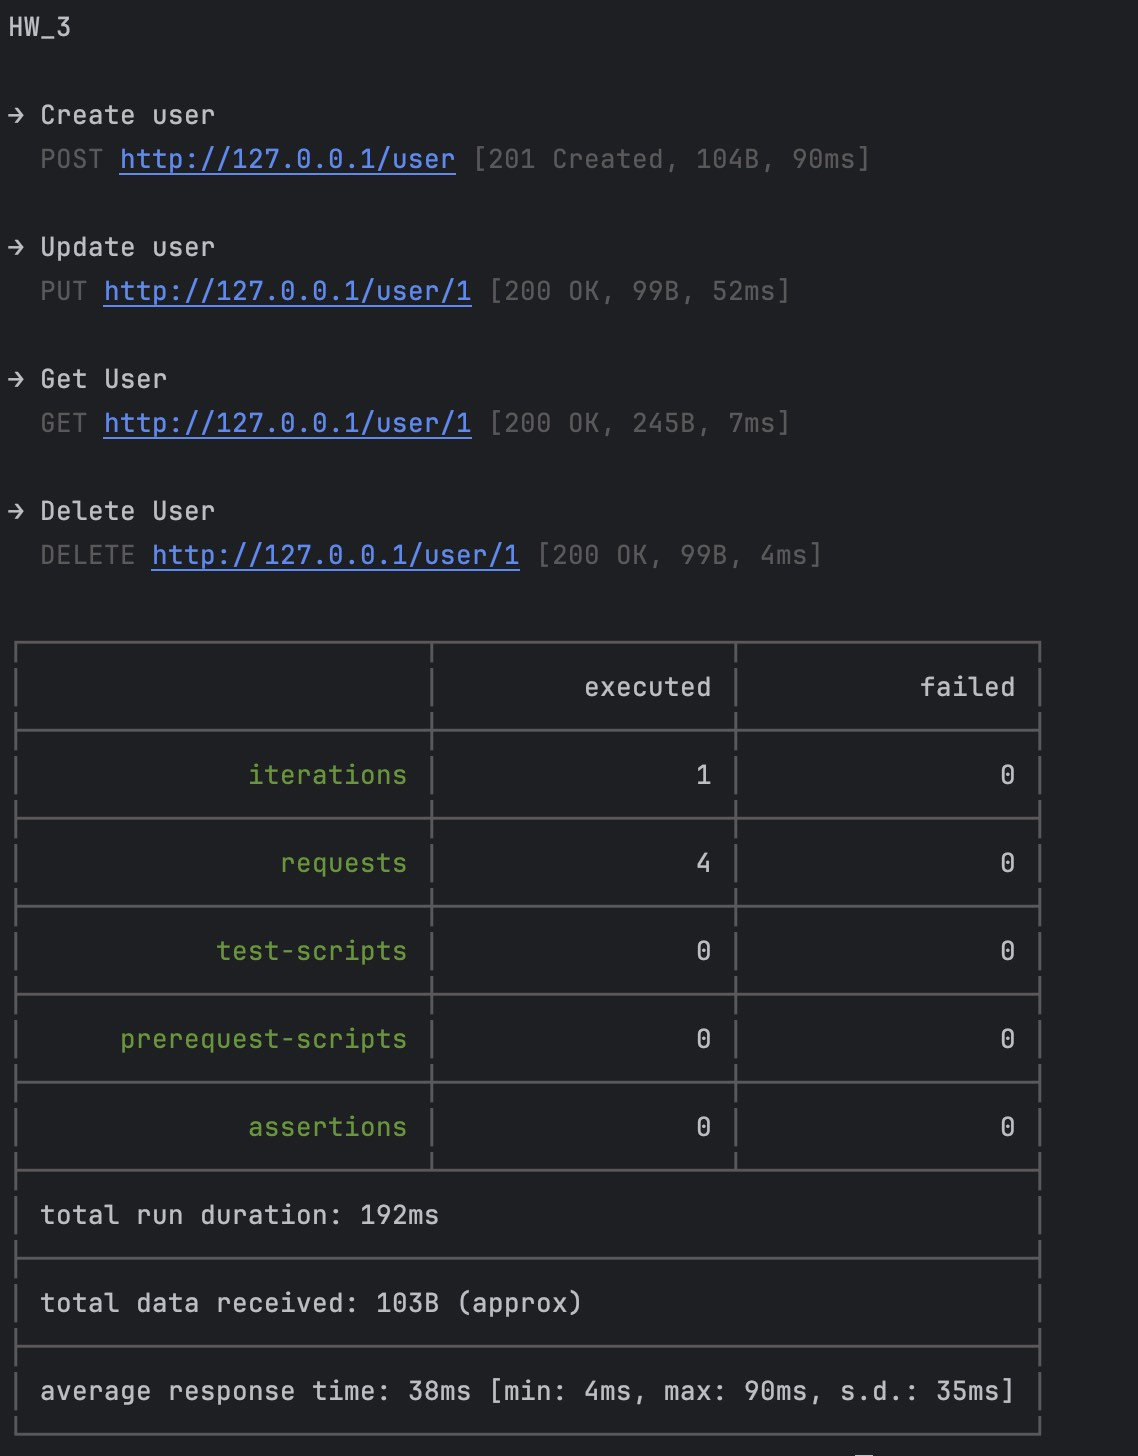
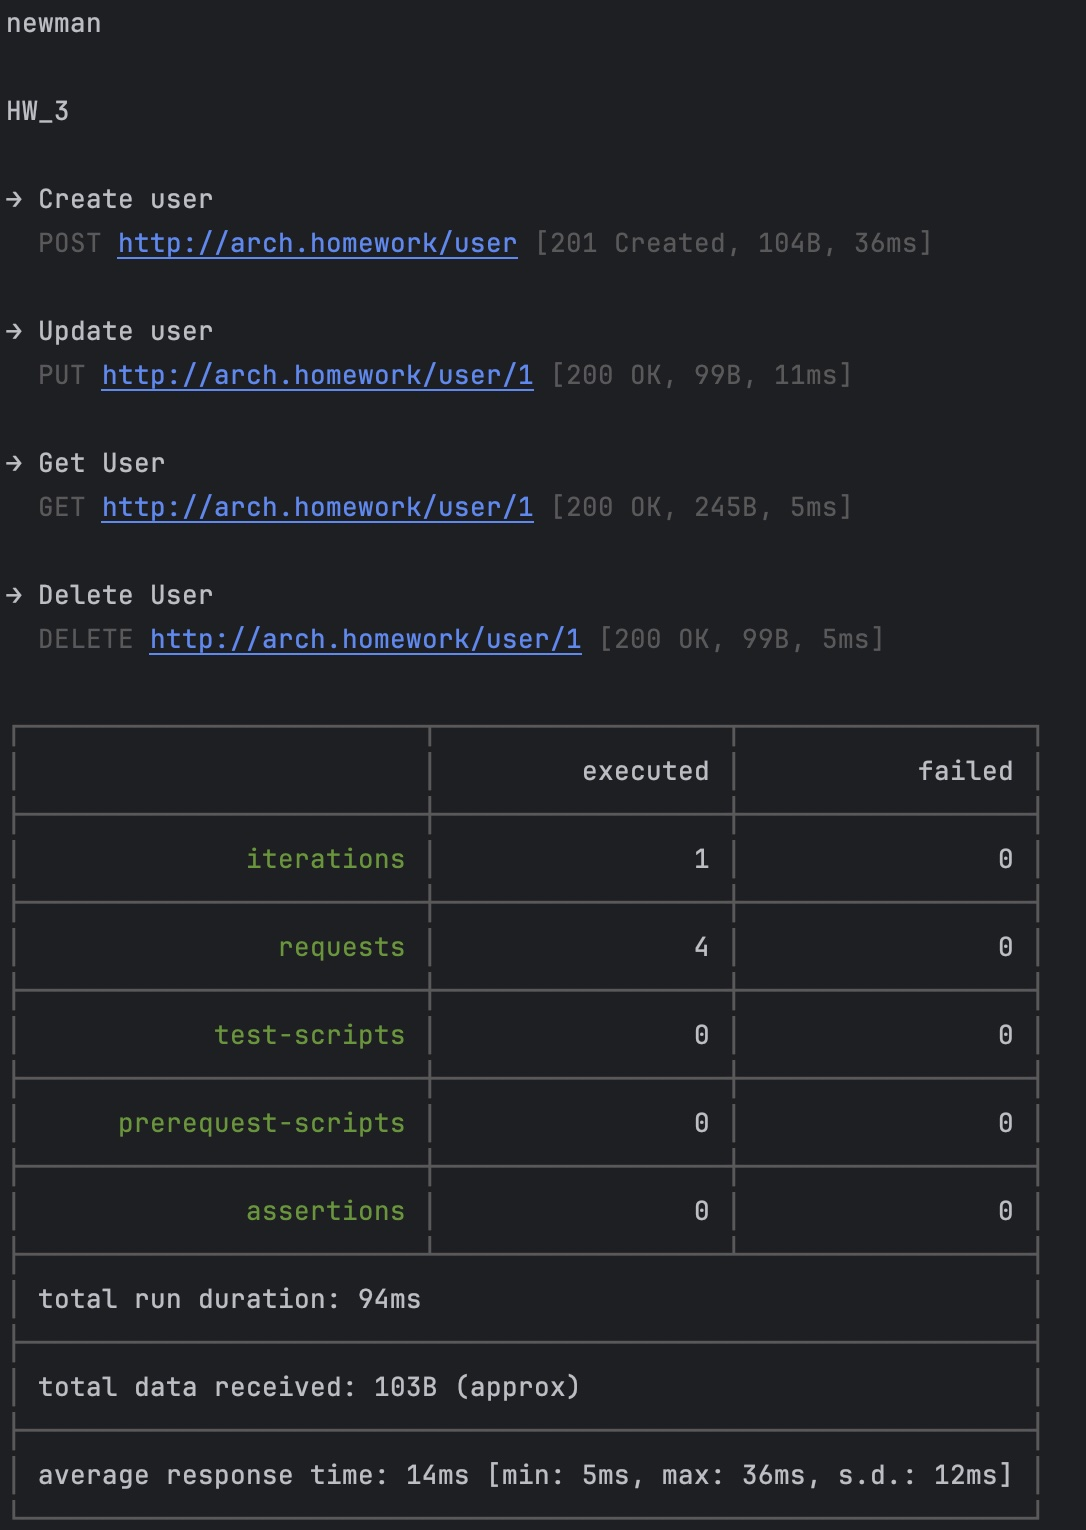
Helm chart + some fefactoring

diff --git a/README.md b/README.md
@@ -1,4 +1,23 @@
 # Homework 3
+## Простой CRUD сервис с использованием PostgreSQL 
+
+## Helm
+
+#### `./chart` - шаблонизация приложения в helm чартах
+
+### Запуск приложения
+
+    make helm_up
+
+### Остановка приложения
+    
+    make helm_down
+
+
+
+## Kubernetes манифесты
+
+#### `./manifests` - все манифесты
 
 
 ### Запуск приложения
@@ -9,17 +28,17 @@
     
     make down
 
-### Все манифесты в папке `manifests`
+
+## Тестирование
+
+#### `./newnan` - коллекция Postman и результаты тестирования
 
 
-### Коллкция Postman и результаты тестирования в папке `newnan`
 
 
-На MacOS не получается сделать запросы по hostname, поэтому 127.0.0.1
+#### Установка PostgreSQL (см. Makefile)
 
-### Установка PostgreSQL (make helm_install_postgres)
-
-    helm install postgresql bitnami/postgresql -n app -f pg_values.yaml
+    helm install postgresql bitnami/postgresql -n app --version 12.12.10 -f pg_values.yaml
 
  
 #### Зависимости
@@ -27,5 +46,7 @@
     brew install helm
     helm repo add bitnami https://charts.bitnami.com/bitnami
 
+## Остальные команды
 
+    make help
 
